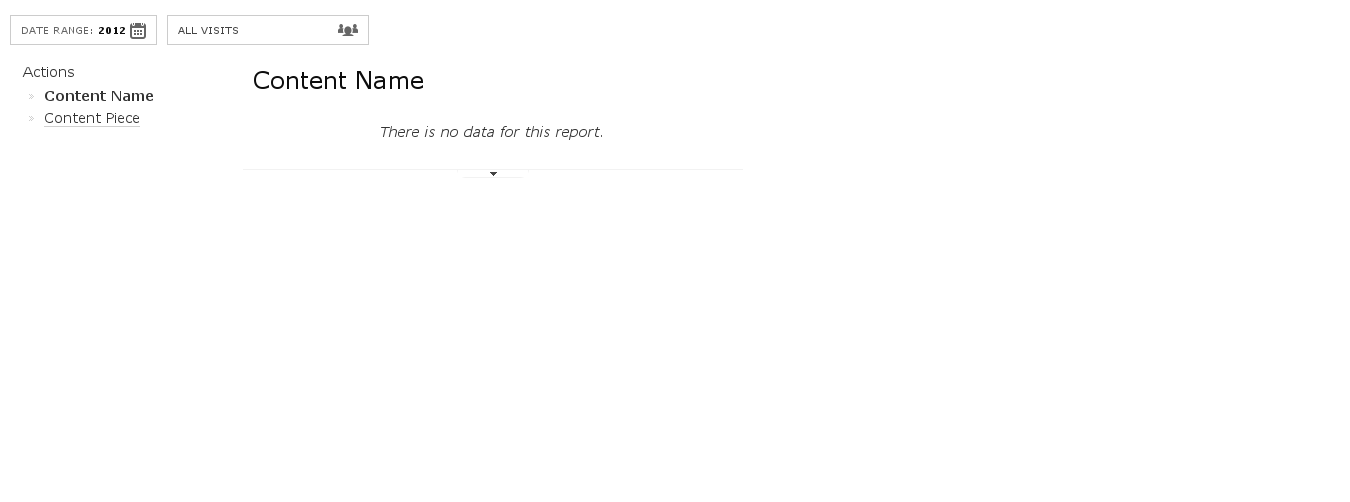
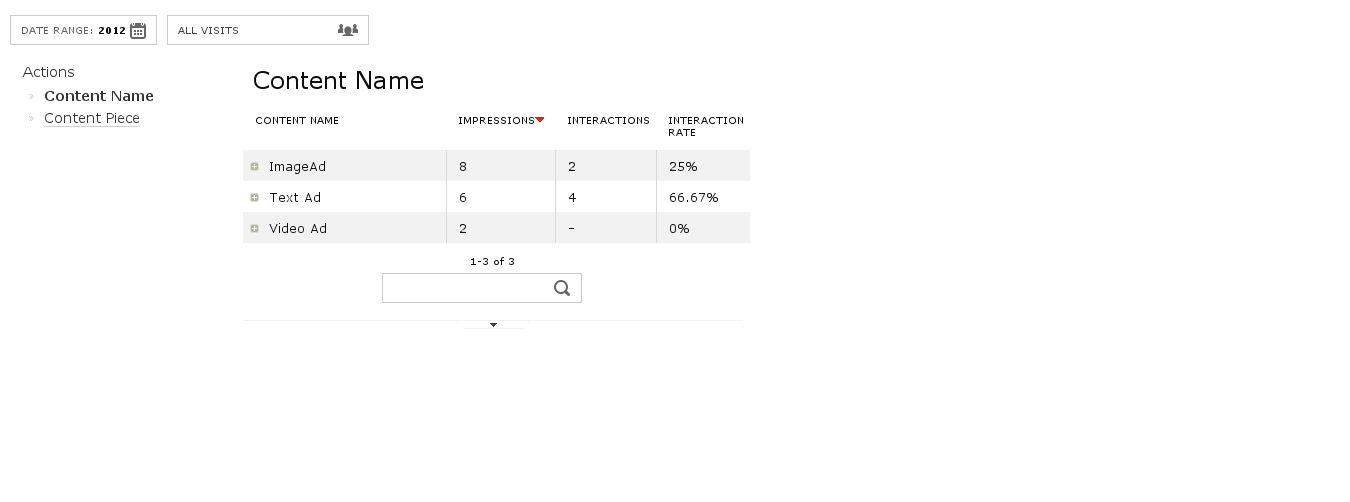
refs #4996 added some more UI tests. They will most likely fail as the fixture is not updated yet

diff --git a/specs/UIIntegration_spec.js b/specs/UIIntegration_spec.js
@@ -180,7 +180,25 @@ describe("UIIntegrationTest", function () { // TODO: Rename to Piwik?
 
     it('should load the actions > contents page correctly', function (done) {
         expect.screenshot('actions_contents').to.be.captureSelector('.pageWrap,.expandDataTableFooterDrawer', function (page) {
-            page.load("?" + urlBase + "#" + generalParams + "&module=Contents&action=index");
+            page.load("?" + urlBase + "#" + generalParams + "&module=Contents&action=index&period=day&date=2012-01-01");
+        }, done);
+    });
+
+    it("should show all corresponding content pieces when clicking on a content name", function (done) {
+        expect.screenshot("loaded").to.be.captureSelector("action_content_name_piece", '.pageWrap', function (page) {
+            page.click('.dataTable .subDataTable .value:contains(ImageAd)');
+        }, done);
+    });
+
+    it("should show all tracked content pieces when clicking on the table", function (done) {
+        expect.screenshot("loaded").to.be.captureSelector("action_content_piece", '.pageWrap', function (page) {
+            page.click('.reportDimension .dimension:contains(Content Piece)');
+        }, done);
+    });
+
+    it("should show all corresponding content names when clicking on a content piece", function (done) {
+        expect.screenshot("loaded").to.be.captureSelector("action_content_piece_name", '.pageWrap', function (page) {
+            page.click('.dataTable .subDataTable .value:contains(Click NOW)');
         }, done);
     });
 
